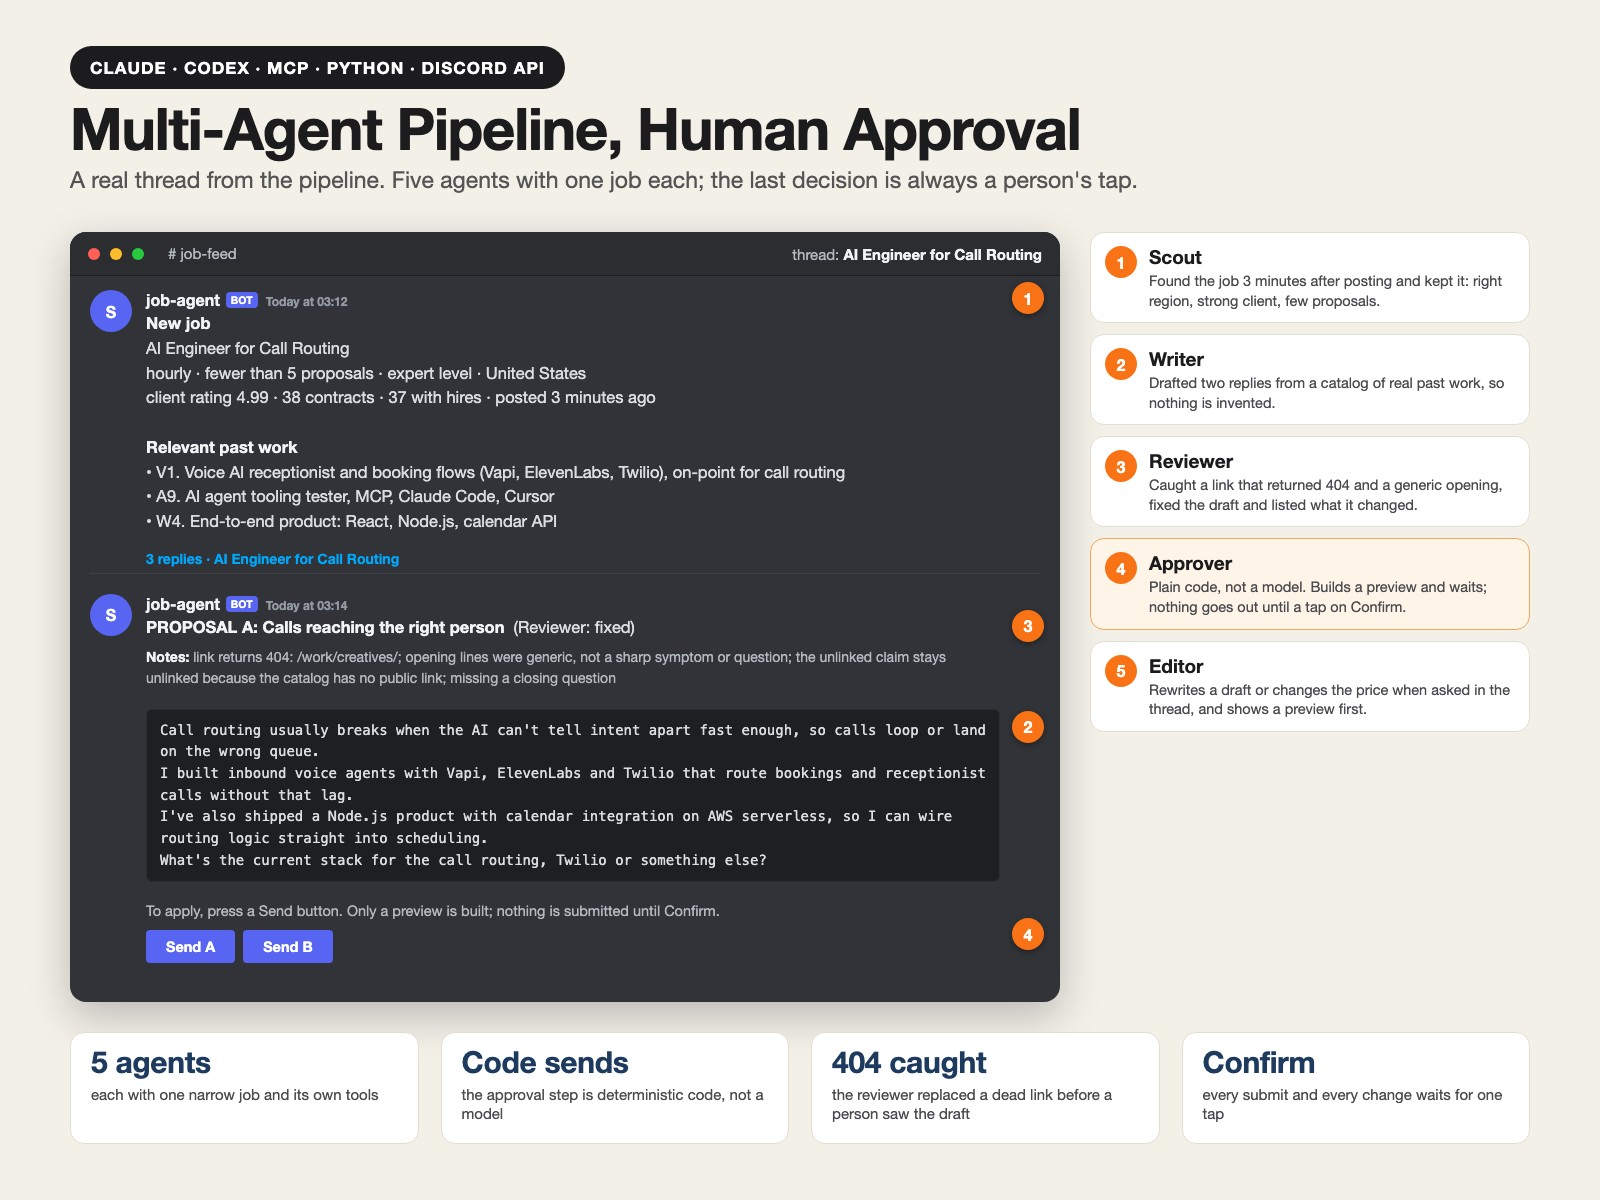
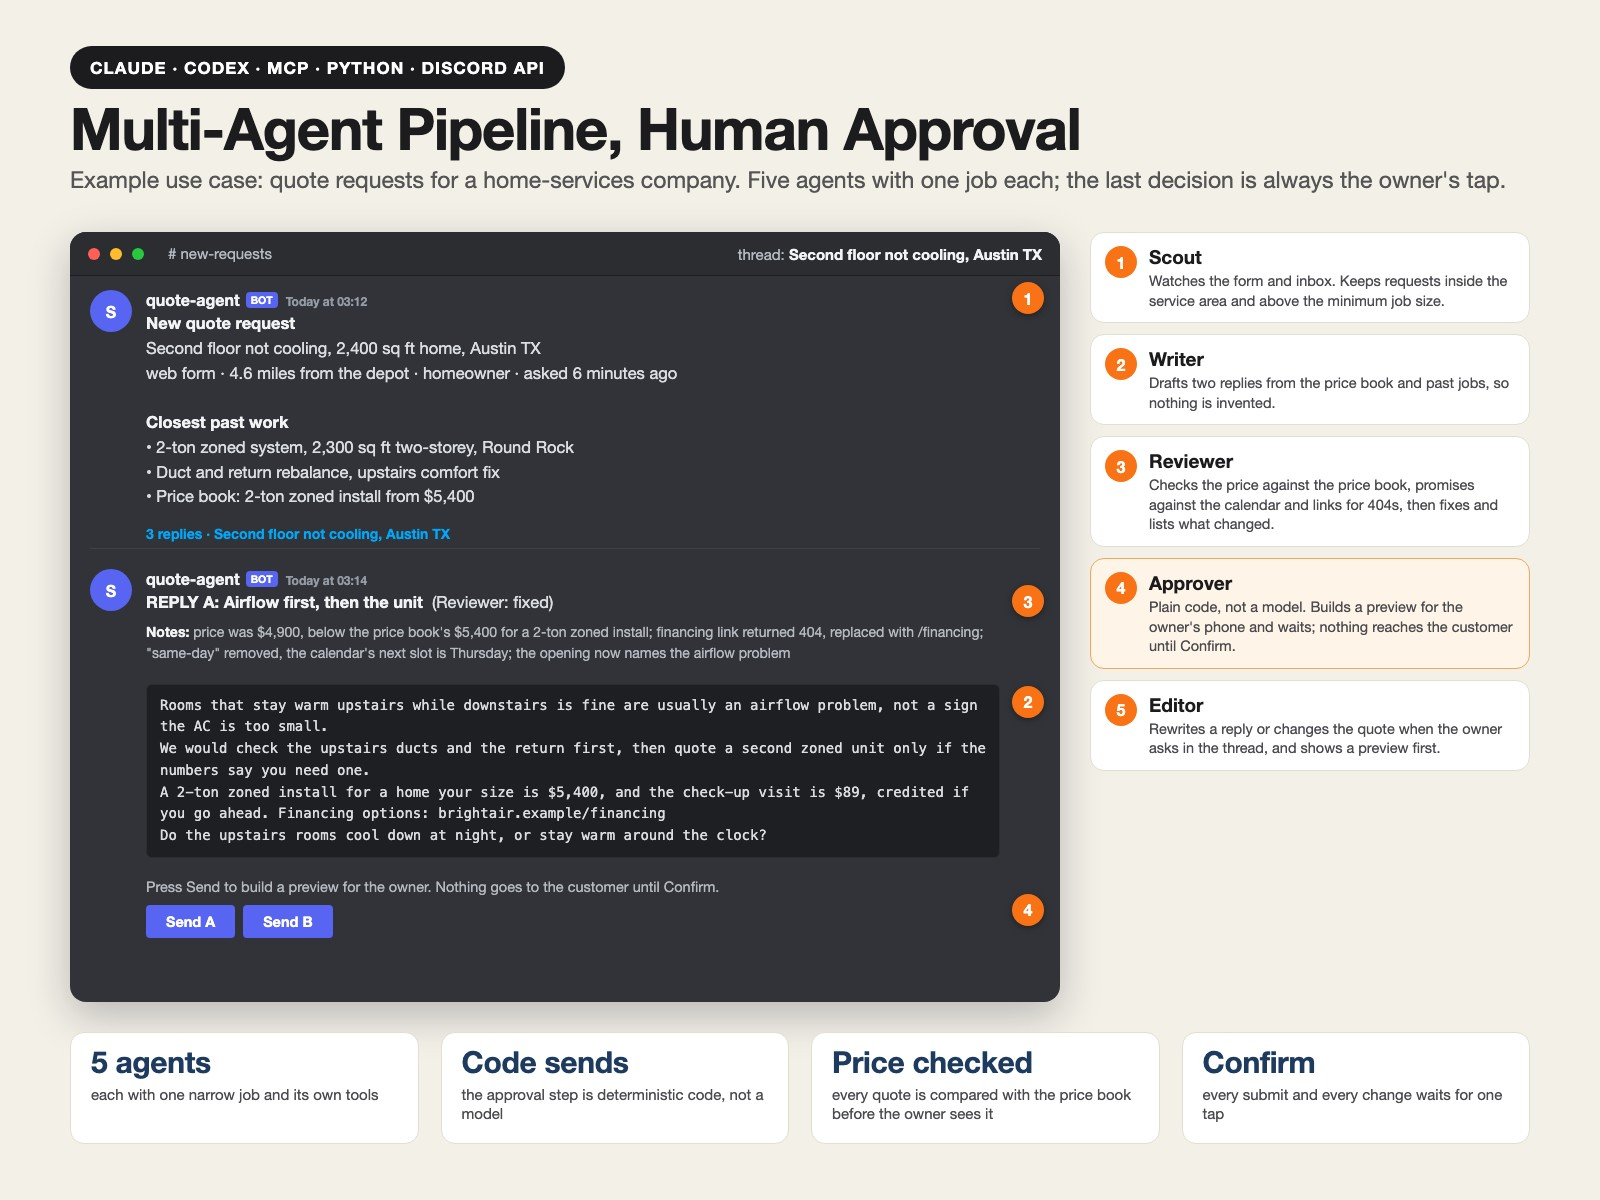
Multi-agent case study: realistic quote-request use case poster and section

diff --git a/case-studies/multi-agent-pipeline-with-human-approval/index.html b/case-studies/multi-agent-pipeline-with-human-approval/index.html
@@ -57,7 +57,7 @@
     <p class="content-excerpt">Five agents with one narrow job each. One finds requests that fit, one drafts replies from a catalog of real work, one checks the drafts, plain code asks the owner to approve on a phone, and one edits on request. Nothing goes out without a tap.</p>
     <div class="tag-row"><span>multi-agent</span><span>claude</span><span>codex</span><span>mcp</span><span>python</span><span>human-in-the-loop</span></div>
     <article class="content-article">
-      <figure style="margin:22px 0"><img src="/assets/imgs/case-studies/multiagent/multiagent-poster.jpg" alt="Five agents: scout, writer, reviewer, approver and editor, shown on a real chat thread with the Send buttons" loading="lazy" style="width:100%;border-radius:12px"><figcaption style="color:#64748b;font-size:14px;margin-top:6px">A real thread from the pipeline, copied from the bot's own posts. The client is not named.</figcaption></figure>
+      <figure style="margin:22px 0"><img src="/assets/imgs/case-studies/multiagent/multiagent-poster.jpg" alt="Five agents: scout, writer, reviewer, approver and editor, shown on an example chat thread with the Send buttons" loading="lazy" style="width:100%;border-radius:12px"><figcaption style="color:#64748b;font-size:14px;margin-top:6px">Example use case: quote requests for a home-services company. Names and figures are sample data.</figcaption></figure>
       <h2>What it is</h2>
       <p>My own working pipeline for handling inbound work requests. One big prompt kept doing everything badly, so I split it into five agents that each do one job and hand over a checked result. A person stays in charge of the only step that matters: sending.</p>
       <h2>The five agents</h2>
@@ -68,6 +68,8 @@
         <li><strong>Approver.</strong> Ordinary code, not a model. It builds a preview with the bid, the cost and the attachments, posts it to the owner's phone, and waits. It sends only after a tap on Confirm. Cancel does nothing.</li>
         <li><strong>Editor.</strong> Changes a draft or the price when the owner asks in the chat thread, for example "shorter" or "add the map project". Changes to something already sent also show a preview first.</li>
       </ul>
+      <h2>Example use case: quote requests</h2>
+      <p>The poster shows the same pipeline on a home-services company. A homeowner asks about a second floor that will not cool. The scout keeps it because it is inside the service area. The writer drafts two replies from the price book and past jobs. The reviewer catches a quote below the price book, a promise of same-day service the calendar cannot keep and a dead financing link, and fixes them. The owner sees a preview on the phone and taps Confirm before anything reaches the customer.</p>
       <h2>Why five and not one</h2>
       <p>A writer that also checks its own work approves its own mistakes. Keeping the reviewer separate means it looks at the draft cold. Keeping the approver as code means the step that spends money and speaks for me cannot be talked into anything by the text of a request. Each agent gets only the tools it needs, and the ones that prepare work cannot confirm anything.</p>
       <h2>A real catch</h2>

diff --git a/portfolio/multi-agent-pipeline-with-human-approval/index.html b/portfolio/multi-agent-pipeline-with-human-approval/index.html
@@ -46,7 +46,7 @@
     <p class="content-excerpt">Five agents with one narrow job each. One finds requests that fit, one drafts replies from a catalog of real work, one checks the drafts, plain code asks the owner to approve on a phone, and one edits on request. Nothing goes out without a tap.</p>
     <div class="tag-row"><span>multi-agent</span><span>claude</span><span>codex</span><span>mcp</span><span>python</span><span>human-in-the-loop</span></div>
     <article class="content-article">
-      <figure style="margin:22px 0"><img src="/assets/imgs/case-studies/multiagent/multiagent-poster.jpg" alt="Five agents: scout, writer, reviewer, approver and editor, shown on a real chat thread with the Send buttons" loading="lazy" style="width:100%;border-radius:12px"><figcaption style="color:#64748b;font-size:14px;margin-top:6px">A real thread from the pipeline, copied from the bot's own posts. The client is not named.</figcaption></figure>
+      <figure style="margin:22px 0"><img src="/assets/imgs/case-studies/multiagent/multiagent-poster.jpg" alt="Five agents: scout, writer, reviewer, approver and editor, shown on an example chat thread with the Send buttons" loading="lazy" style="width:100%;border-radius:12px"><figcaption style="color:#64748b;font-size:14px;margin-top:6px">Example use case: quote requests for a home-services company. Names and figures are sample data.</figcaption></figure>
       <h2>What it is</h2>
       <p>My own working pipeline for handling inbound work requests. One big prompt kept doing everything badly, so I split it into five agents that each do one job and hand over a checked result. A person stays in charge of the only step that matters: sending.</p>
       <h2>The five agents</h2>
@@ -57,6 +57,8 @@
         <li><strong>Approver.</strong> Ordinary code, not a model. It builds a preview with the bid, the cost and the attachments, posts it to the owner's phone, and waits. It sends only after a tap on Confirm. Cancel does nothing.</li>
         <li><strong>Editor.</strong> Changes a draft or the price when the owner asks in the chat thread, for example "shorter" or "add the map project". Changes to something already sent also show a preview first.</li>
       </ul>
+      <h2>Example use case: quote requests</h2>
+      <p>The poster shows the same pipeline on a home-services company. A homeowner asks about a second floor that will not cool. The scout keeps it because it is inside the service area. The writer drafts two replies from the price book and past jobs. The reviewer catches a quote below the price book, a promise of same-day service the calendar cannot keep and a dead financing link, and fixes them. The owner sees a preview on the phone and taps Confirm before anything reaches the customer.</p>
       <h2>Why five and not one</h2>
       <p>A writer that also checks its own work approves its own mistakes. Keeping the reviewer separate means it looks at the draft cold. Keeping the approver as code means the step that spends money and speaks for me cannot be talked into anything by the text of a request. Each agent gets only the tools it needs, and the ones that prepare work cannot confirm anything.</p>
       <h2>A real catch</h2>
